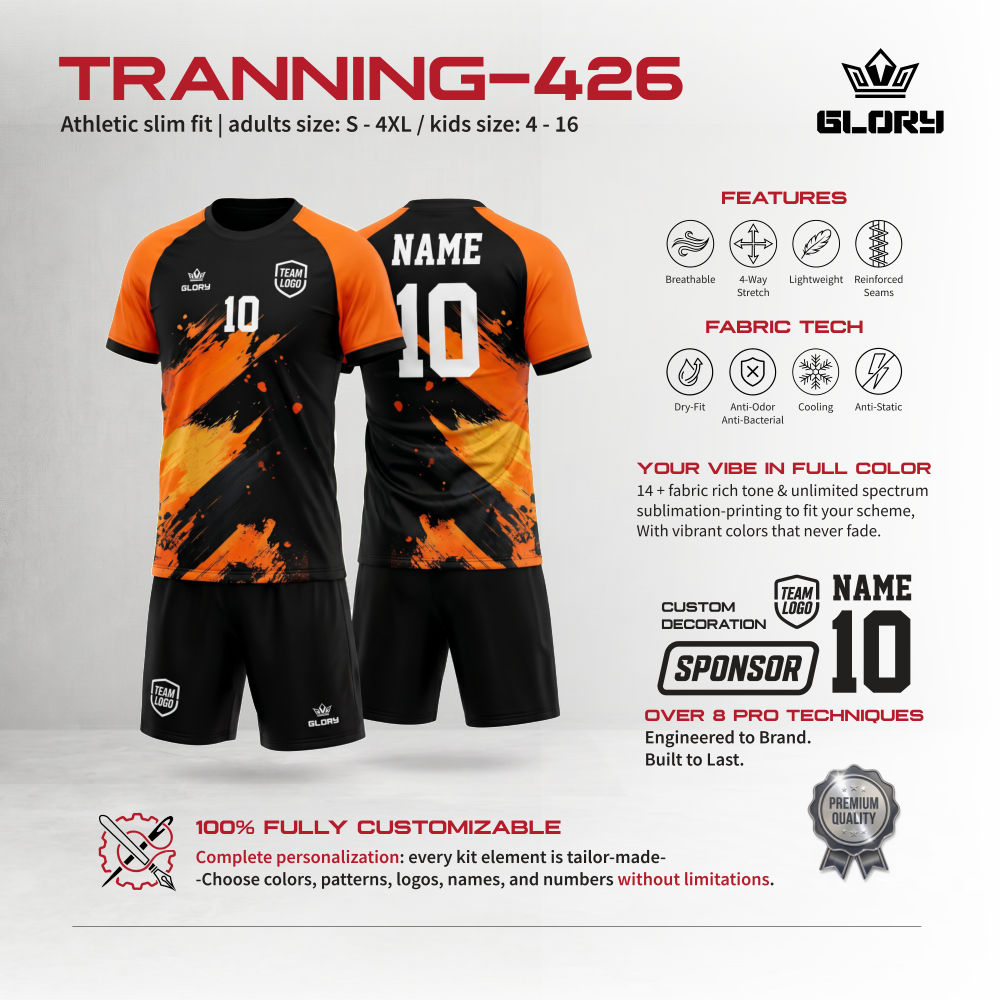
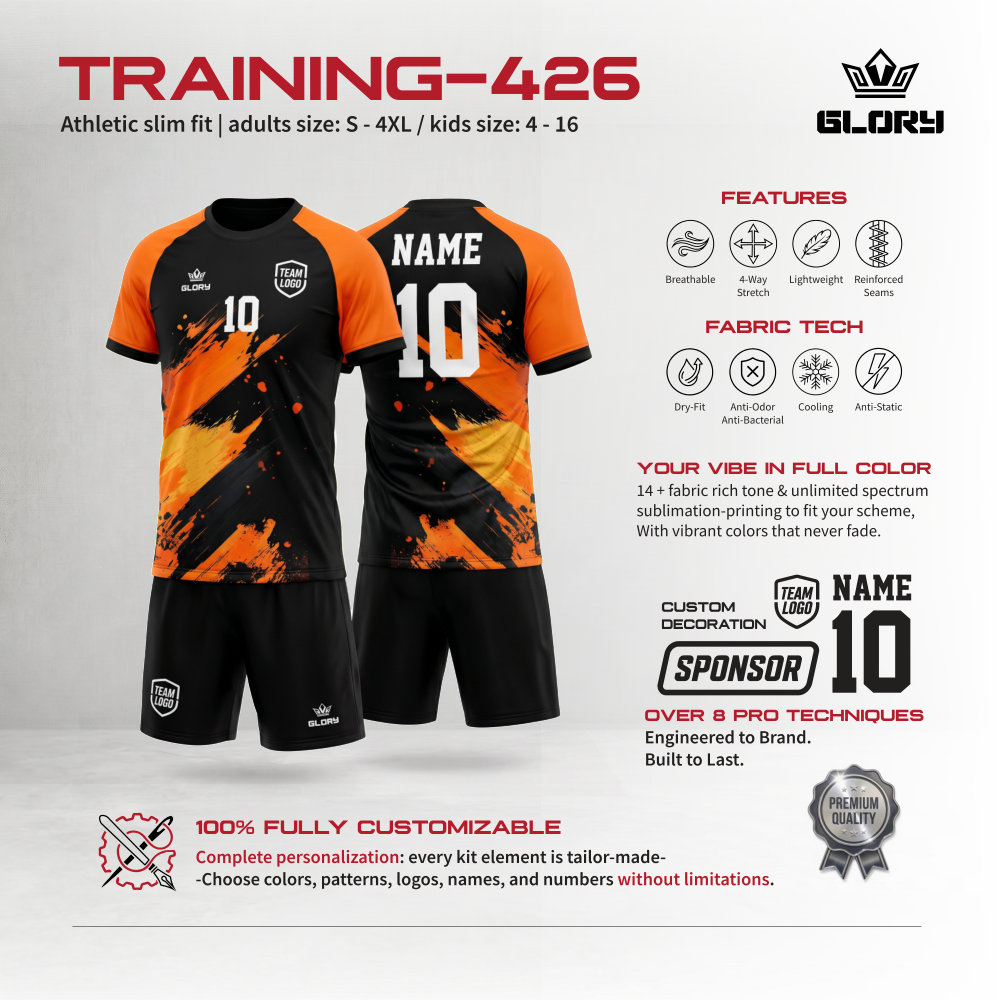
Catalog: update Training pages 64-70 from revised training.pdf (2026-09-01), bump cache-buster to v3

Changed region(s): [[0.217, 0.031, 0.682, 0.124]]

diff --git a/index.html b/index.html
@@ -260,7 +260,7 @@
 
   var gallery = document.getElementById("gallery");
   var html = "";
-  var V = "?v=2"; // cache-buster: forces fresh images after content updates
+  var V = "?v=3"; // cache-buster: forces fresh images after content updates
   SECTIONS.forEach(function(sec){
     // GLOBAL consecutive pairing starting at page 2: page 1 is the only single
     // page (front cover); every other page pairs as (2,3), (4,5), (6,7), ...
